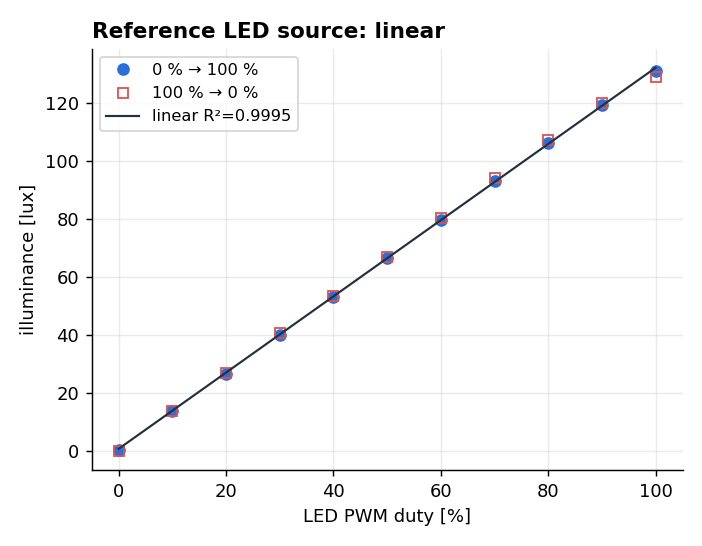
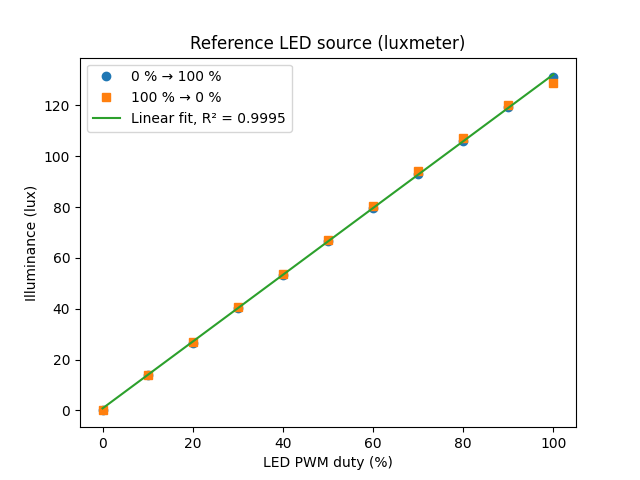
Restyle metrology figures with plain matplotlib

diff --git a/analysis/metrology.py b/analysis/metrology.py
@@ -198,68 +198,62 @@ def main():
     params.to_csv(RESULTS / "metrology_parameters.csv")
 
     # ---- 4. figures -------------------------------------------------------
-    fig, ax = plt.subplots(1, 3, figsize=(15, 4.4))
     bb = np.linspace(0, 100, 300)
 
-    ax[0].errorbar(B, L, yerr=lvl["std"], fmt="o", ms=5, color="#22303f",
-                   ecolor="#9aa4b1", capsize=3, label="measured (60 samples/level)", zorder=5)
-    ax[0].plot(bb, np.polyval(lin, bb), "--", color="#d9534f",
-               label=f"linear  R²={r_squared(L, np.polyval(lin, B)):.3f}")
-    ax[0].plot(bb, np.polyval(quad, bb), "--", color="#e0a100",
-               label=f"quadratic  R²={r_squared(L, np.polyval(quad, B)):.3f}")
-    ax[0].plot(bb, power_law(bb, *p_free), "-", color="#2a6fdb", lw=2,
-               label=f"power γ={p_free[2]:.2f}  R²={r_squared(L, power_law(B, *p_free)):.3f}")
-    ax[0].set_xlabel("screen brightness setting [%]")
-    ax[0].set_ylabel("luminance [cd/m²]")
-    ax[0].set_title("The screen is strongly non-linear", loc="left", fontweight="bold", fontsize=12)
-    ax[0].legend(fontsize=8.5)
+    # screen response and the three fitted models
+    plt.figure()
+    plt.errorbar(B, L, yerr=lvl["std"], fmt="o", label="Measured (60 samples/level)")
+    plt.plot(bb, np.polyval(lin, bb),
+             label=f"Linear, R² = {r_squared(L, np.polyval(lin, B)):.3f}")
+    plt.plot(bb, np.polyval(quad, bb),
+             label=f"Quadratic, R² = {r_squared(L, np.polyval(quad, B)):.3f}")
+    plt.plot(bb, power_law(bb, *p_free),
+             label=f"Power law, γ = {p_free[2]:.2f}, R² = {r_squared(L, power_law(B, *p_free)):.3f}")
+    plt.xlabel("Screen brightness setting (%)")
+    plt.ylabel("Luminance (cd/m²)")
+    plt.title("Screen luminance vs brightness setting (VEML7700)")
+    plt.legend()
+    plt.savefig(FIGS / "characterization.png")
 
-    ax[1].plot(updown.index, updown["up"], "o-", color="#2a6fdb", label="0 % → 100 %")
-    ax[1].plot(updown.index, updown["down"], "s--", color="#d9534f", label="100 % → 0 %")
-    ax[1].set_xlabel("screen brightness setting [%]")
-    ax[1].set_ylabel("luminance [cd/m²]")
-    ax[1].set_title(f"Hysteresis: {h_max:.1f} % FS max, {h_mean:.1f} % mean",
-                    loc="left", fontweight="bold", fontsize=12)
-    ax[1].legend(fontsize=9)
+    # hysteresis between the up and down sweeps
+    plt.figure()
+    plt.plot(updown.index, updown["up"], "o-", label="0 % → 100 %")
+    plt.plot(updown.index, updown["down"], "s-", label="100 % → 0 %")
+    plt.xlabel("Screen brightness setting (%)")
+    plt.ylabel("Luminance (cd/m²)")
+    plt.title(f"Hysteresis: {h_max:.1f} % FS max, {h_mean:.1f} % FS mean")
+    plt.legend()
+    plt.savefig(FIGS / "hysteresis.png")
 
-    ax[2].loglog(r[m], v[m], "o", color="#22303f", label="measured levels")
+    # cross-calibration against the reference luxmeter
     rr = np.linspace(r[m].min(), r[m].max(), 100)
-    ax[2].loglog(rr, k_cal * rr, "-", color="#2e9e5b", lw=2,
-                 label=f"×{k_cal:.2f} (median gain)")
-    ax[2].loglog(rr, rr, ":", color="#9aa4b1", label="1:1")
-    ax[2].set_xlabel("reference luxmeter [lux]")
-    ax[2].set_ylabel("VEML7700 [lux]")
-    ax[2].set_title(f"One gain factor explains it\n(slope {log_slope:.3f}, residual "
-                    f"{np.abs(residual).mean():.1f} %)", loc="left", fontweight="bold", fontsize=12)
-    ax[2].legend(fontsize=9)
-
-    for a in ax:
-        a.spines[["top", "right"]].set_visible(False)
-        a.grid(alpha=.25)
-    fig.tight_layout()
-    fig.savefig(FIGS / "characterization.png", dpi=130)
+    plt.figure()
+    plt.loglog(r[m], v[m], "o", label="Measured levels")
+    plt.loglog(rr, k_cal * rr, label=f"Gain × {k_cal:.2f} (median)")
+    plt.loglog(rr, rr, "k--", label="1:1")
+    plt.xlabel("Reference luxmeter (lux)")
+    plt.ylabel("VEML7700 (lux)")
+    plt.title(f"VEML7700 vs luxmeter, log-log slope {log_slope:.3f}")
+    plt.legend()
+    plt.savefig(FIGS / "cross_calibration.png")
 
     # LED reference sweep: the linear control case
     led = pd.read_csv(DATA / "reference_luxmeter_led.csv")
-    fig2, ax2 = plt.subplots(figsize=(5.4, 4.2))
     up = led.iloc[:11]
     down = led.iloc[11:]
     sl, ic = np.polyfit(led["brightness_pct"], led["lux_luxmeter"], 1)
-    ax2.plot(up["brightness_pct"], up["lux_luxmeter"], "o", color="#2a6fdb", label="0 % → 100 %")
-    ax2.plot(down["brightness_pct"], down["lux_luxmeter"], "s", mfc="none", color="#d9534f",
-             label="100 % → 0 %")
-    ax2.plot(bb, ic + sl * bb, "-", color="#22303f", lw=1.2,
-             label=f"linear R²={r_squared(led['lux_luxmeter'], ic + sl*led['brightness_pct']):.4f}")
-    ax2.set_xlabel("LED PWM duty [%]")
-    ax2.set_ylabel("illuminance [lux]")
-    ax2.set_title("Reference LED source: linear", loc="left", fontweight="bold", fontsize=12)
-    ax2.legend(fontsize=9)
-    ax2.spines[["top", "right"]].set_visible(False)
-    ax2.grid(alpha=.25)
-    fig2.tight_layout()
-    fig2.savefig(FIGS / "led_reference.png", dpi=130)
+    plt.figure()
+    plt.plot(up["brightness_pct"], up["lux_luxmeter"], "o", label="0 % → 100 %")
+    plt.plot(down["brightness_pct"], down["lux_luxmeter"], "s", label="100 % → 0 %")
+    plt.plot(bb, ic + sl * bb,
+             label=f"Linear fit, R² = {r_squared(led['lux_luxmeter'], ic + sl*led['brightness_pct']):.4f}")
+    plt.xlabel("LED PWM duty (%)")
+    plt.ylabel("Illuminance (lux)")
+    plt.title("Reference LED source (luxmeter)")
+    plt.legend()
+    plt.savefig(FIGS / "led_reference.png")
 
-    print(f"\nwrote {RESULTS}/*.csv and {FIGS}/characterization.png, {FIGS}/led_reference.png")
+    print(f"\nwrote {RESULTS}/*.csv and four figures in {FIGS}/")
 
 
 if __name__ == "__main__":
